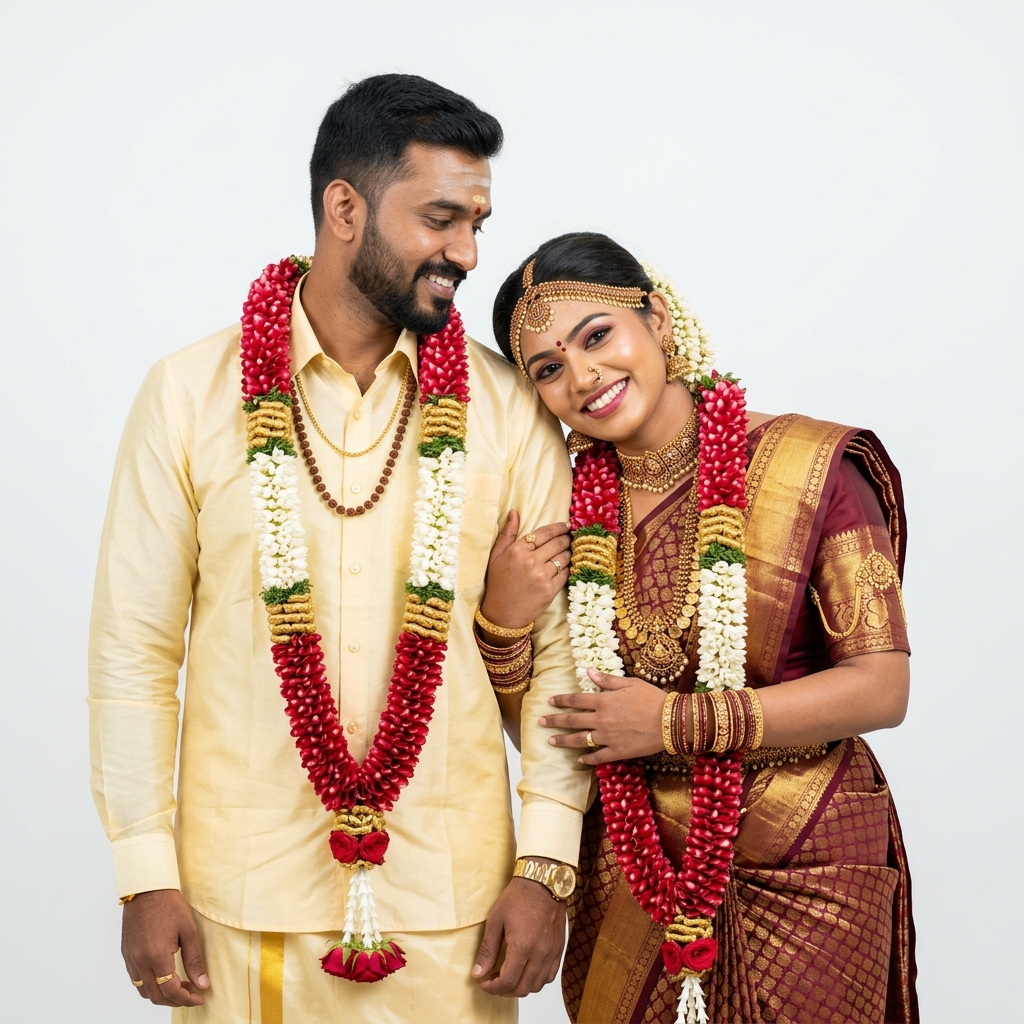
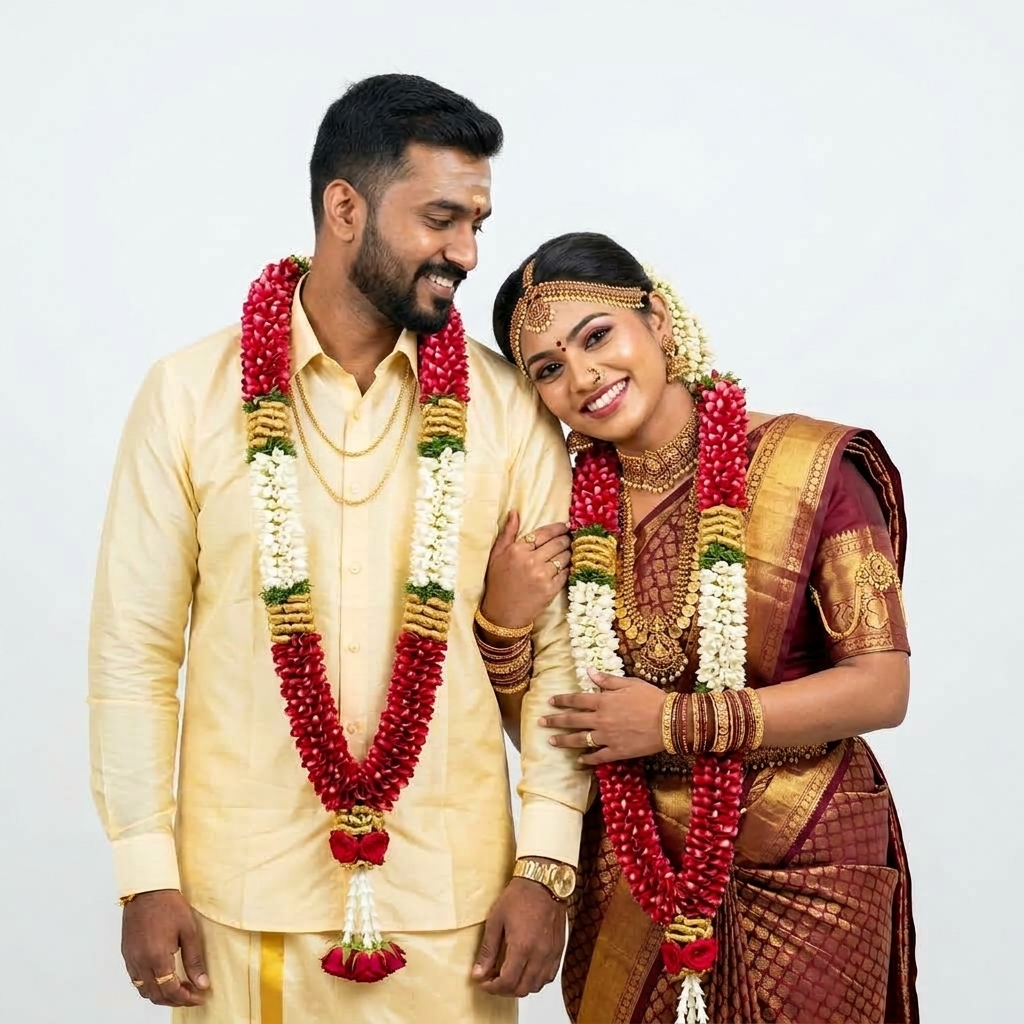
UI tweaks, PDF filename format update, fix mobile layout issues

diff --git a/src/frontend/components/HomeClient.tsx b/src/frontend/components/HomeClient.tsx
@@ -90,7 +90,7 @@ export default function HomeClient() {
   };
 
   const servicesTa = [
-    { title: 'ஜாதக பதிவு', desc: 'மங்களகரமான நாதஸ்வரம் மற்றும் மேள தாளங்கள்.', icon: FileText, imageUrl: '/services/premium/premium_0.png' },
+    { title: 'ஜாதக பதிவு', desc: 'உங்கள் ஜாதகங்களை துல்லியமாக பதிவு செய்து பொருத்தமான வரன்களை கண்டறியலாம்.', icon: FileText, imageUrl: '/services/premium/premium_0.png' },
     { title: 'திருமண மண்டபம்', desc: 'விசாலமான மற்றும் அழகான திருமண மண்டபங்கள் வசதி.', icon: Tent, imageUrl: '/services/premium/premium_15.jpg' },
     { title: 'வாழை மரம்', desc: 'திருமணத்திற்கான மங்களகரமான வாழை மரங்கள்.', icon: TreePine, imageUrl: '/services/premium/premium_1.png' },
     { title: 'ஐயர்', desc: 'திருமண சடங்குகளை சிறப்பிக்க அனுபவம் வாய்ந்த ஐயர்கள்.', icon: Flame, imageUrl: '/services/premium/premium_2.png' },
@@ -104,7 +104,7 @@ export default function HomeClient() {
     { title: 'தண்ணீர் 300 ml to 20 லிட்டர்', desc: 'பாதுகாப்பான மற்றும் சுத்திகரிக்கப்பட்ட குடிநீர் விநியோகம்.', icon: GlassWater, imageUrl: '/services/premium/premium_10.png' },
     { title: 'டெக்கரேஷன்', desc: 'நவீன மற்றும் பாரம்பரிய மேடை அலங்காரங்கள்.', icon: Flower, imageUrl: '/services/premium/premium_11.png' },
     { title: 'போட்டோ வீடியோ', desc: 'உங்கள் திருமண நினைவுகளை அழியாப் படங்களாக்கும் நிபுணர்கள்.', icon: Camera, imageUrl: '/services/premium/premium_12.png' },
-    { title: 'ஐஸ்கிரீம், பீடா, பழங்கள்', desc: 'சிறப்பு ஐஸ்கிரீம் கவுண்டர்கள், தாம்பூலம் மற்றும் பழங்கள்.', icon: IceCream, imageUrl: '/services/premium/premium_13.png' },
+    { title: 'ஐஸ்கிரீம், பீடா, பழங்கள்', desc: 'சிறப்பு ஐஸ்கிரீம், தாம்பூலம் மற்றும் பழங்கள்.', icon: IceCream, imageUrl: '/services/premium/premium_13.png' },
     { title: 'கரும்பு ஜூஸ் மற்றும் பல', desc: 'விருந்தினர்களை உபசரிக்க சிறப்பு பானங்கள் மற்றும் தின்பண்டங்கள்.', icon: CupSoda, imageUrl: '/services/premium/premium_14.png' },
   ];
 
@@ -136,13 +136,13 @@ export default function HomeClient() {
           <div className="max-w-7xl mx-auto flex justify-between items-center">
             <button
               onClick={() => setShowRegister(false)}
-              className="flex items-center gap-2 bg-primary text-white px-5 py-2.5 rounded-full font-bold text-sm hover:bg-primary-light transition-all shadow-md hover:shadow-lg hover:-translate-x-0.5"
+              className="flex items-center gap-1.5 sm:gap-2 bg-primary text-white px-3 sm:px-5 py-2 sm:py-2.5 rounded-full font-bold text-xs sm:text-sm hover:bg-primary-light transition-all shadow-md hover:shadow-lg hover:-translate-x-0.5 whitespace-nowrap"
             >
-              ← {language === 'TA' ? 'முகப்புக்கு திரும்பு' : 'Back to Home'}
+              ← <span className="hidden sm:inline">{language === 'TA' ? 'முகப்புக்கு திரும்பு' : 'Back to Home'}</span>
+              <span className="sm:hidden">{language === 'TA' ? 'முகப்பு' : 'Back'}</span>
             </button>
-            <div className="flex flex-col items-center justify-center">
-              <img src="/akshayam_logo.png" alt="Akshayam Logo" className="h-14 md:h-20 object-contain" />
-              <span className="text-xs sm:text-sm font-bold text-primary mt-1 whitespace-nowrap">ஜாதகம் முதல் பந்தி வரை</span>
+            <div className="flex items-center justify-center mx-2">
+              <img src="/akshayam_logo.png" alt="Akshayam Logo" className="h-10 sm:h-12 md:h-16 object-contain" />
             </div>
             <div className="flex items-center gap-2 cursor-pointer" onClick={toggleLanguage} title="Translate English/Tamil">
   <span className={`text-xs font-bold ${language !== 'TA' ? 'text-primary' : 'text-gray-400'}`}>English</span>
@@ -165,9 +165,8 @@ export default function HomeClient() {
       {/* Navbar */}
       <nav className="sticky top-0 w-full z-50 transition-all duration-300 bg-background/95 backdrop-blur-md py-3 shadow-sm border-b border-primary/10">
         <div className="max-w-7xl mx-auto px-4 sm:px-6 lg:px-8 flex justify-between items-center">
-          <a href="#home" className="flex flex-col items-start md:items-center">
-            <img src="/akshayam_logo.png" alt="Akshayam Logo" className="h-16 md:h-20 object-contain" />
-            <span className="text-[11px] sm:text-xs font-bold text-primary mt-1 whitespace-nowrap">ஜாதகம் முதல் பந்தி வரை</span>
+          <a href="#home" className="flex items-center">
+            <img src="/akshayam_logo.png" alt="Akshayam Logo" className="h-14 sm:h-16 object-contain" />
           </a>
 
           <div className="hidden md:flex items-center space-x-8 text-base font-bold text-gray-800">
@@ -268,6 +267,10 @@ export default function HomeClient() {
           
           {/* Left: Text Content & Image */}
           <div className="w-full max-w-4xl flex flex-col items-center">
+            
+            <div className="text-sm sm:text-base font-bold text-primary mb-4 whitespace-nowrap text-center">
+              ஜாதகம் முதல் பந்தி வரை
+            </div>
             
             <div className="inline-flex items-center gap-2 px-4 py-2 rounded-full bg-primary/10 border border-primary/20 text-primary font-bold text-xs md:text-sm mb-6 animate-pulse">
               <Sparkles className="w-4 h-4 text-accent" />

diff --git a/src/frontend/components/pdf/JathagamPDFTemplate.tsx b/src/frontend/components/pdf/JathagamPDFTemplate.tsx
@@ -263,10 +263,11 @@ export default function JathagamPDFTemplate({ profile, profileId, family: family
   const placeOfBirth = translateToTamil(jData.placeOfBirth || jData.nativePlace || profile.placeOfBirth || profile.lob || profile.city, { 'coimbatore': 'கோயம்புத்தூர்', 'chennai': 'சென்னை', 'tiruppur': 'திருப்பூர்', 'erode': 'ஈரோடு', 'salem': 'சேலம்', 'karur': 'கரூர்', 'namakkal': 'நாமக்கல்' }) || 'குறிப்பிடப்படவில்லை';
   const dasaBalance = jData.dasaBalance || profile.dasaBalance || profile.birthDetails || 'தசா இருப்பு விவரம் பார்க்கவும்';
   
-  const kovil = jData.kovil || profile.houseLocation || 'குலதெய்வம் குறிப்பிடப்படவில்லை';
   const kulam = profile.koottam || jData.kulam || profile.subCaste || 'குறிப்பிடப்படவில்லை';
-  const fatherStatus = mapParentStatus(jData.fatherName || family.fatherStatus);
-  const motherStatus = mapParentStatus(jData.motherName || family.motherStatus);
+  const fatherName = family.fatherName || jData.fatherName || '-';
+  const motherName = family.motherName || jData.motherName || '-';
+  const fatherStatus = mapParentStatus(family.fatherStatus || jData.fatherStatus);
+  const motherStatus = mapParentStatus(family.motherStatus || jData.motherStatus);
   const formatSiblings = (siblingsStr: any) => {
     if (!siblingsStr || typeof siblingsStr !== 'string') return siblingsStr;
     if (!siblingsStr.includes('மூத்தவர் ஆண்:')) return siblingsStr;
@@ -414,36 +415,38 @@ export default function JathagamPDFTemplate({ profile, profileId, family: family
             <FieldItem label="குலம்" value={kulam} />
             
             <FieldItem label="பாலினம்" value={profile.gender === 'MALE' ? 'ஆண்' : 'பெண்'} />
-            <FieldItem label="தாய் நிலை" value={motherStatus} />
-            
-            <FieldItem label="வயது" value={`${calculateAge(dob)} வருடம்`} />
-            <FieldItem label="சமூக நிலை" value={translateToTamil(profile.familyStatus, familyStatusMap)} />
-            
-            <FieldItem label="திருமண நிலை" value={translateToTamil(profile.maritalStatus, maritalStatusMap)} />
             <FieldItem label="பிறந்த தேதி" value={formatSafeDate(dob)} />
             
-            <FieldItem label="பதிவு செய்தவர்" value={profile.profileCreatedBy || "உறவினர்"} />
+            <FieldItem label="வயது" value={`${calculateAge(dob)} வருடம்`} />
             <FieldItem label="பிறந்த நேரம்" value={tob} />
             
-            <FieldItem label="நிறம்" value={translateToTamil(profile.skinColour, colorMap)} />
+            <FieldItem label="திருமண நிலை" value={translateToTamil(profile.maritalStatus, maritalStatusMap)} />
             <FieldItem label="பிறந்த கிழமை" value={dayOfBirth} />
             
-            <FieldItem label="உயரம்" value={heightStr} />
+            <FieldItem label="பதிவு செய்தவர்" value={profile.profileCreatedBy || "உறவினர்"} />
             <FieldItem label="பிறந்த ஊர்" value={placeOfBirth} />
             
-            <FieldItem label="எடை" value={`${profile.weight} கிலோ`} />
-            <FieldItem label="கோவில்" value={kovil} />
-            
+            <FieldItem label="நிறம்" value={translateToTamil(profile.skinColour, colorMap)} />
             <FieldItem label="சாதி" value={casteDisplay} />
+            
+            <FieldItem label="உயரம்" value={heightStr} />
+            <FieldItem label="சமூக நிலை" value={translateToTamil(profile.familyStatus, familyStatusMap)} />
+            
+            <FieldItem label="எடை" value={`${profile.weight} கிலோ`} />
+            <FieldItem label="உடன் பிறந்தோர்" value={siblingsDisplay} />
+            
+            <FieldItem label="தந்தை பெயர்" value={fatherName} />
             <FieldItem label="தந்தை நிலை" value={fatherStatus} />
             
-            <FieldItem label="உடன் பிறந்தோர்" value={siblingsDisplay} />
-            <FieldItem label="பாதம்" value={padam} />
+            <FieldItem label="தாய் பெயர்" value={motherName} />
+            <FieldItem label="தாய் நிலை" value={motherStatus} />
             
             <FieldItem label="நட்சத்திரம்" value={nakshatra} />
-            <FieldItem label="ராசி" value={rasi} />
+            <FieldItem label="பாதம்" value={padam} />
             
+            <FieldItem label="ராசி" value={rasi} />
             <FieldItem label="லக்னம்" value={lagnam} />
+            
             <FieldItem label="ஜாதகம்" value={dosham} />
           </div>
 

diff --git a/src/frontend/components/profile-wizard/ProfileWizard.tsx b/src/frontend/components/profile-wizard/ProfileWizard.tsx
@@ -72,7 +72,7 @@ export default function ProfileWizard({ language: propLang, hideHeader = false, 
           </div>
           
           {/* Trust Indicator */}
-          <div className="bg-background border border-[#D4AF37]/40 p-4 rounded-xl mb-8 flex items-start shadow-sm">
+          <div className="bg-background border border-[#D4AF37]/40 p-4 rounded-xl mb-6 flex items-start shadow-sm">
             <div className="flex-shrink-0 mt-0.5">
               <svg className="h-5 w-5 text-[#D4AF37]" viewBox="0 0 20 20" fill="currentColor">
                 <path fillRule="evenodd" d="M2.166 4.999A11.954 11.954 0 0010 1.944 11.954 11.954 0 0017.834 5c.11.65.166 1.32.166 2.001 0 5.225-3.34 9.67-8 11.317C5.34 16.67 2 12.225 2 7c0-.682.057-1.35.166-2.001zm11.541 3.708a1 1 0 00-1.414-1.414L9 10.586 7.707 9.293a1 1 0 00-1.414 1.414l2 2a1 1 0 001.414 0l4-4z" clipRule="evenodd" />
@@ -87,6 +87,25 @@ export default function ProfileWizard({ language: propLang, hideHeader = false, 
               </p>
             </div>
           </div>
+
+          {/* Required Documents Alert */}
+          {currentStep === 0 && (
+            <div className="bg-emerald-50 border border-emerald-200 p-4 rounded-xl mb-8 shadow-sm">
+              <h4 className="text-sm font-bold text-emerald-800 mb-2 flex items-center gap-2">
+                <svg className="w-4 h-4" fill="none" viewBox="0 0 24 24" stroke="currentColor">
+                  <path strokeLinecap="round" strokeLinejoin="round" strokeWidth={2} d="M13 16h-1v-4h-1m1-4h.01M21 12a9 9 0 11-18 0 9 9 0 0118 0z" />
+                </svg>
+                {language === 'TA' ? 'பதிவு செய்ய தேவையானவை / Required Details' : 'Required Details'}
+              </h4>
+              <ul className="text-xs md:text-sm text-emerald-700 space-y-1.5 ml-1 list-disc list-inside font-medium">
+                <li>{language === 'TA' ? 'புகைப்படம் / Photo' : 'Photo'}</li>
+                <li>{language === 'TA' ? 'ஜாதகம் / Jathakam' : 'Jathakam'}</li>
+                <li>{language === 'TA' ? 'சாதி சான்றிதழ் / Community Certificate' : 'Community Certificate'}</li>
+                <li>{language === 'TA' ? 'வீட்டின் கூகுள் வரைபட இணைப்பு / House Google Location Link' : 'House Google Location Link'}</li>
+                <li>{language === 'TA' ? 'அலுவலகத்தின் கூகுள் வரைபட இணைப்பு / Office or Work Location Link' : 'Office or Work Location Link'}</li>
+              </ul>
+            </div>
+          )}
 
           <div className="mt-8 relative">
             <div className={`transition-opacity duration-300 ${currentStep === 0 ? 'block opacity-100' : 'hidden opacity-0'}`}>

diff --git a/src/app/dashboard/DashboardClient.tsx b/src/app/dashboard/DashboardClient.tsx
@@ -88,8 +88,9 @@ export default function DashboardClient({
       {/* GLOBAL NAVBAR WITH COMPACT WIDGET */}
       <header className="sticky top-0 z-40 bg-white/95 backdrop-blur-md border-b border-gray-200 py-3 px-4 sm:px-6 shadow-sm flex items-center justify-between">
         <div className="flex items-center gap-4">
-          <Link href="/" className="flex items-center">
+          <Link href="/" className="flex flex-col items-center">
             <img src="/akshayam_logo.png" alt="Akshayam Logo" className="h-8 sm:h-10 object-contain" />
+            <span className="text-[9px] sm:text-[10px] font-bold text-primary mt-0.5 whitespace-nowrap">ஜாதகம் முதல் பந்தி வரை</span>
           </Link>
         </div>
 
@@ -150,7 +151,10 @@ export default function DashboardClient({
                 <p className="text-primary font-bold text-sm mt-1">{user?.userid || profile.id.slice(0, 8).toUpperCase()}</p>
                 <div className="flex gap-2 justify-center mt-4">
                   <Link href="/profile" className="px-4 py-1.5 bg-primary text-white text-xs font-bold rounded-full">{language === 'TA' ? 'திருத்து' : 'Edit'}</Link>
-                  <button onClick={() => downloadBioDataPdf(`pdf-template-${profile.id}`, profile.id)} className="px-4 py-1.5 bg-red-600 text-white text-xs font-bold rounded-full flex items-center gap-1"><Download className="w-3 h-3" />{language === 'TA' ? 'பதிவிறக்கு' : 'Download'}</button>
+                  <button onClick={() => {
+                    const displayId = user?.userid || profile.id.slice(0, 8).toUpperCase();
+                    downloadBioDataPdf(`pdf-template-${profile.id}`, `${displayId} - ${profile.name}`);
+                  }} className="px-4 py-1.5 bg-red-600 text-white text-xs font-bold rounded-full flex items-center gap-1"><Download className="w-3 h-3" />{language === 'TA' ? 'பதிவிறக்கு' : 'Download'}</button>
                   <button onClick={async () => { await logoutUser(); window.location.href = '/'; }} className="px-4 py-1.5 bg-gray-100 text-gray-700 text-xs font-bold rounded-full flex items-center gap-1"><LogOut className="w-3 h-3"/> Logout</button>
                 </div>
               </div>

diff --git a/src/frontend/components/profile-wizard/Step1PersonalInfo.tsx b/src/frontend/components/profile-wizard/Step1PersonalInfo.tsx
@@ -901,7 +901,7 @@ export function Step1PersonalInfo({ onNext, language = 'TA', initialData, onGend
         <div className="flex items-center justify-between border-b pb-2">
           <h3 className="text-lg font-bold text-gray-900">{t.educationDetails}</h3>
           <button type="button" onClick={() => append({ level: '', degreeName: '', institution: '' })} className="flex items-center space-x-1 text-sm text-red-600 font-semibold hover:text-red-700">
-            <Plus className="w-4 h-4" />
+            <Plus className="w-5 h-5 flex-shrink-0" />
             <span>{t.addEducation}</span>
           </button>
         </div>
@@ -930,7 +930,7 @@ export function Step1PersonalInfo({ onNext, language = 'TA', initialData, onGend
               <label className="block text-xs font-semibold text-gray-600">{t.institution}</label>
               <input {...register(`educations.${index}.institution` as const)} className="mt-1 block w-full rounded-md border-gray-300 shadow-sm focus:border-rose-600 focus:ring-rose-600 text-sm border p-2 text-gray-900" placeholder={t.instPlaceholder} />
             </div>
-            <button type="button" onClick={() => remove(index)} className="absolute -top-2 -right-2 bg-red-100 text-red-600 p-1.5 rounded-full hover:bg-red-200 transition-colors opacity-0 group-hover:opacity-100">
+            <button type="button" onClick={() => remove(index)} className="absolute -top-2 -right-2 bg-red-100 text-red-600 p-1.5 rounded-full hover:bg-red-200 transition-colors shadow-sm">
               <Trash2 className="w-4 h-4" />
             </button>
           </div>

diff --git a/src/frontend/utils/formTranslations.ts b/src/frontend/utils/formTranslations.ts
@@ -9,7 +9,7 @@ export const formTranslations = {
     accountDetails: 'கணக்கு விவரங்கள் (உள்நுழைவுக்கு) / Account Details',
     mobileNo: 'மொபைல் எண் / Mobile Number',
     mobileNoPlaceholder: '10 இலக்க மொபைல் எண் / 10-digit Mobile No',
-    password: 'கடவுச்சொல் / Password',
+    password: 'கடவுச்சொல் உருவாக்கு / Create Password',
     passwordPlaceholder: 'கடவுச்சொல்லை உள்ளிடவும் / Enter Password',
     loginTitle: 'உள்நுழைக / Login',
     loginBtn: 'உள்நுழைக / Login',
@@ -253,7 +253,7 @@ export const formTranslations = {
     accountDetails: 'Account Details (For Login)',
     mobileNo: 'Mobile Number',
     mobileNoPlaceholder: '10-digit Mobile No',
-    password: 'Password',
+    password: 'Create Password',
     passwordPlaceholder: 'Enter Password',
     loginTitle: 'Login',
     loginBtn: 'Login',

diff --git a/src/app/profiles/ProfilesClient.tsx b/src/app/profiles/ProfilesClient.tsx
@@ -215,7 +215,10 @@ export default function ProfilesClient({ profiles, initialShortlists = [], initi
                         <Share2 className="w-4 h-4" />
                       </button>
                       <button
-                        onClick={() => downloadBioDataPdf(`pdf-template-${match.id}`, match.id)}
+                        onClick={() => {
+                          const displayId = (match as any).userid || (match.userIndex ? `${1000 + match.userIndex}` : `${match.id.substring(0, 6).toUpperCase()}`);
+                          downloadBioDataPdf(`pdf-template-${match.id}`, `${displayId} - ${profile.name}`);
+                        }}
                         className="w-10 h-[40px] rounded-full border border-gray-200 text-gray-500 hover:text-primary hover:bg-gray-100 flex items-center justify-center transition-colors shadow-sm"
                         title={language === 'TA' ? 'பதிவிறக்கு' : 'Download'}
                       >

diff --git a/src/frontend/components/profile-wizard/Step3Expectations.tsx b/src/frontend/components/profile-wizard/Step3Expectations.tsx
@@ -130,7 +130,11 @@ export function Step3Expectations({ onPrev, onNext, language = 'TA', initialData
           {gender !== 'FEMALE' && (
             <div>
               <label className={labelClass}>{t.dowryExpectation}</label>
-              <input {...register('dowryExpectation')} className={inputClass} placeholder={t.dowryPlaceholder} />
+              <select {...register('dowryExpectation')} className={inputClass}>
+                <option value="">தேர்ந்தெடுக்கவும் / Select</option>
+                <option value="இல்லை">இல்லை (None)</option>
+                <option value="அவர் விருப்பம்">அவர் விருப்பம் (Their Wish)</option>
+              </select>
             {errors.dowryExpectation && <p className="text-red-500 text-xs mt-1">{errors.dowryExpectation.message as string}</p>}
             </div>
           )}

diff --git a/src/lib/generatePdf.ts b/src/lib/generatePdf.ts
@@ -1,7 +1,7 @@
 import html2canvas from "html2canvas-pro";
 import jsPDF from "jspdf";
 
-export async function downloadBioDataPdf(elementId: string, profileId: string) {
+export async function downloadBioDataPdf(elementId: string, filename: string) {
   const templateElement = document.getElementById(elementId);
   if (!templateElement) return;
 
@@ -26,7 +26,7 @@ export async function downloadBioDataPdf(elementId: string, profileId: string) {
     });
 
     pdf.addImage(dataUrl, "JPEG", 0, 0, 210, 297);
-    pdf.save(`Akshayam_BioData_${profileId}.pdf`);
+    pdf.save(`${filename}.pdf`);
   } catch (error) {
     console.error("PDF Generation failed:", error);
     alert("Failed to generate PDF. Please try again.");

diff --git a/src/app/profiles/[id]/ProfileDetailClient.tsx b/src/app/profiles/[id]/ProfileDetailClient.tsx
@@ -207,7 +207,7 @@ export function ProfileDetailClient({ user, initialIsShortlisted = false, curren
             <button
               onClick={() => {
                 const shareId = user.userid || user.profile?.displayId || (user.userIndex ? `${1000 + user.userIndex}` : user.id.substring(0, 8).toUpperCase());
-                downloadBioDataPdf(`pdf-template-${profile.id}`, shareId);
+                downloadBioDataPdf(`pdf-template-${profile.id}`, `${shareId} - ${profile.name}`);
               }}
               className="col-span-2 sm:col-span-1 flex items-center justify-center gap-2 px-2 py-2.5 sm:px-4 sm:py-2 bg-red-600 rounded-lg text-white hover:bg-red-700 shadow-sm transition-colors"
             >

diff --git a/src/app/globals.css b/src/app/globals.css
@@ -42,3 +42,9 @@ body {
 ::-webkit-calendar-picker-indicator {
   display: none;
 }
+
+/* Hide default Edge/IE password reveal button and clear button */
+input[type="password"]::-ms-reveal,
+input[type="password"]::-ms-clear {
+  display: none;
+}
